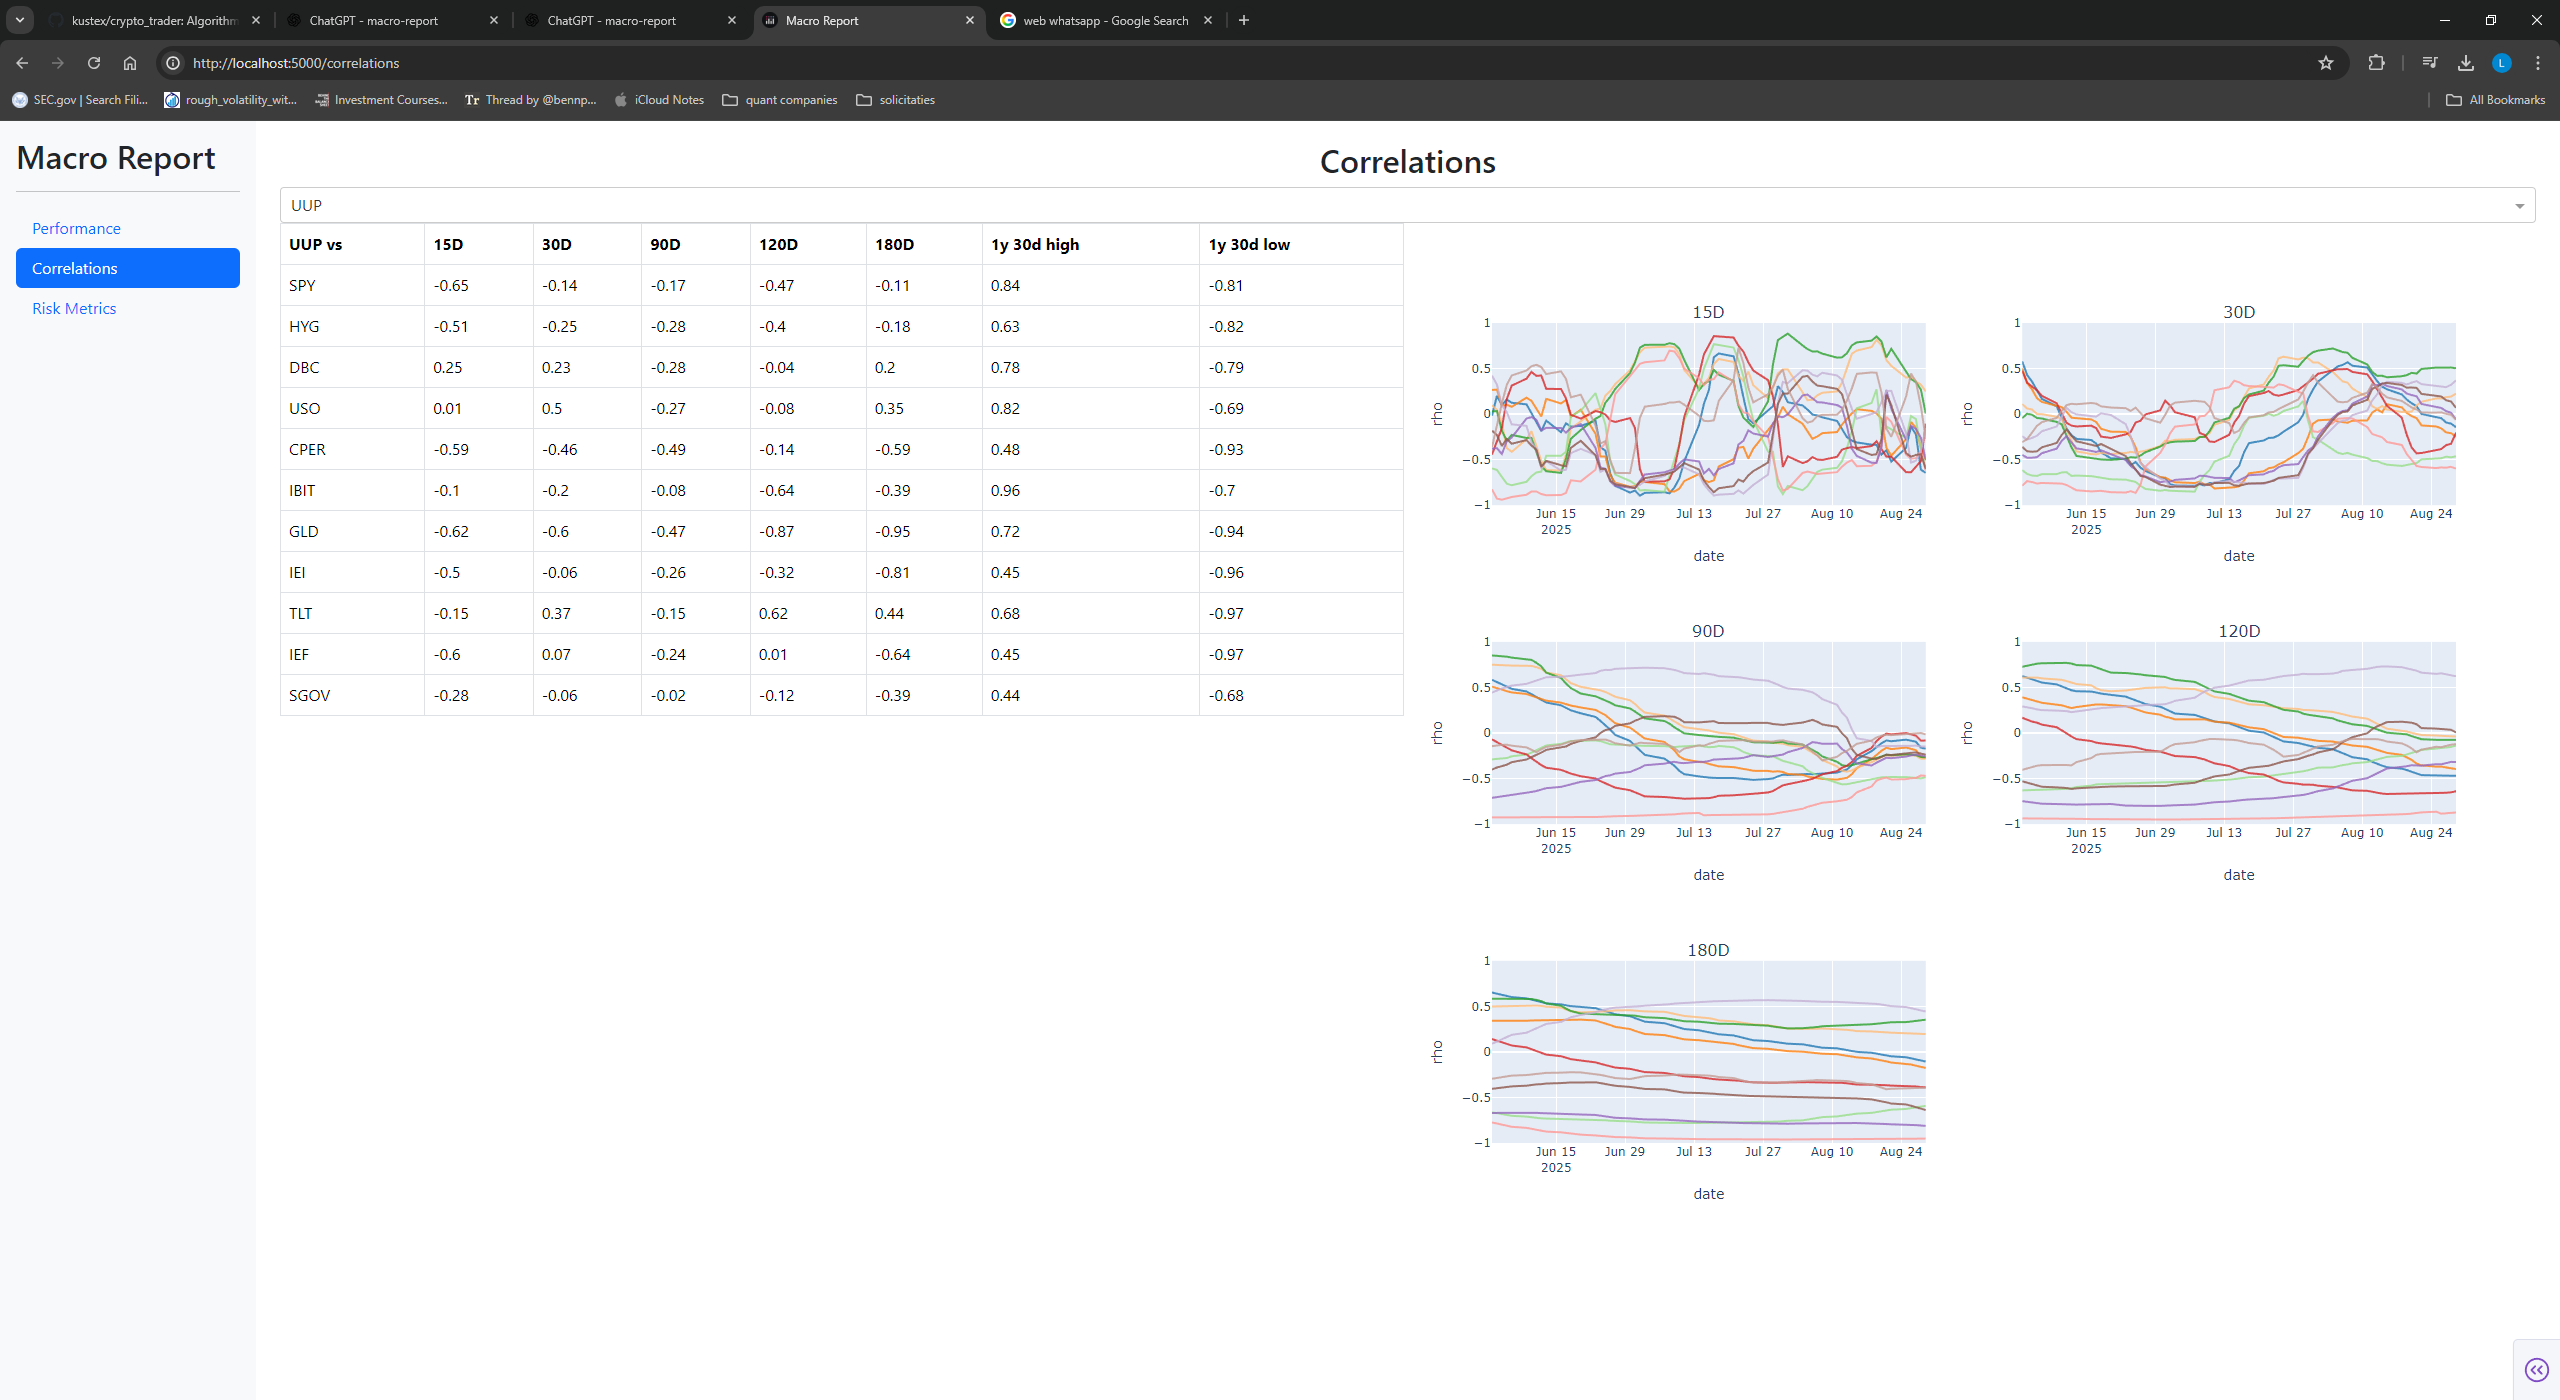
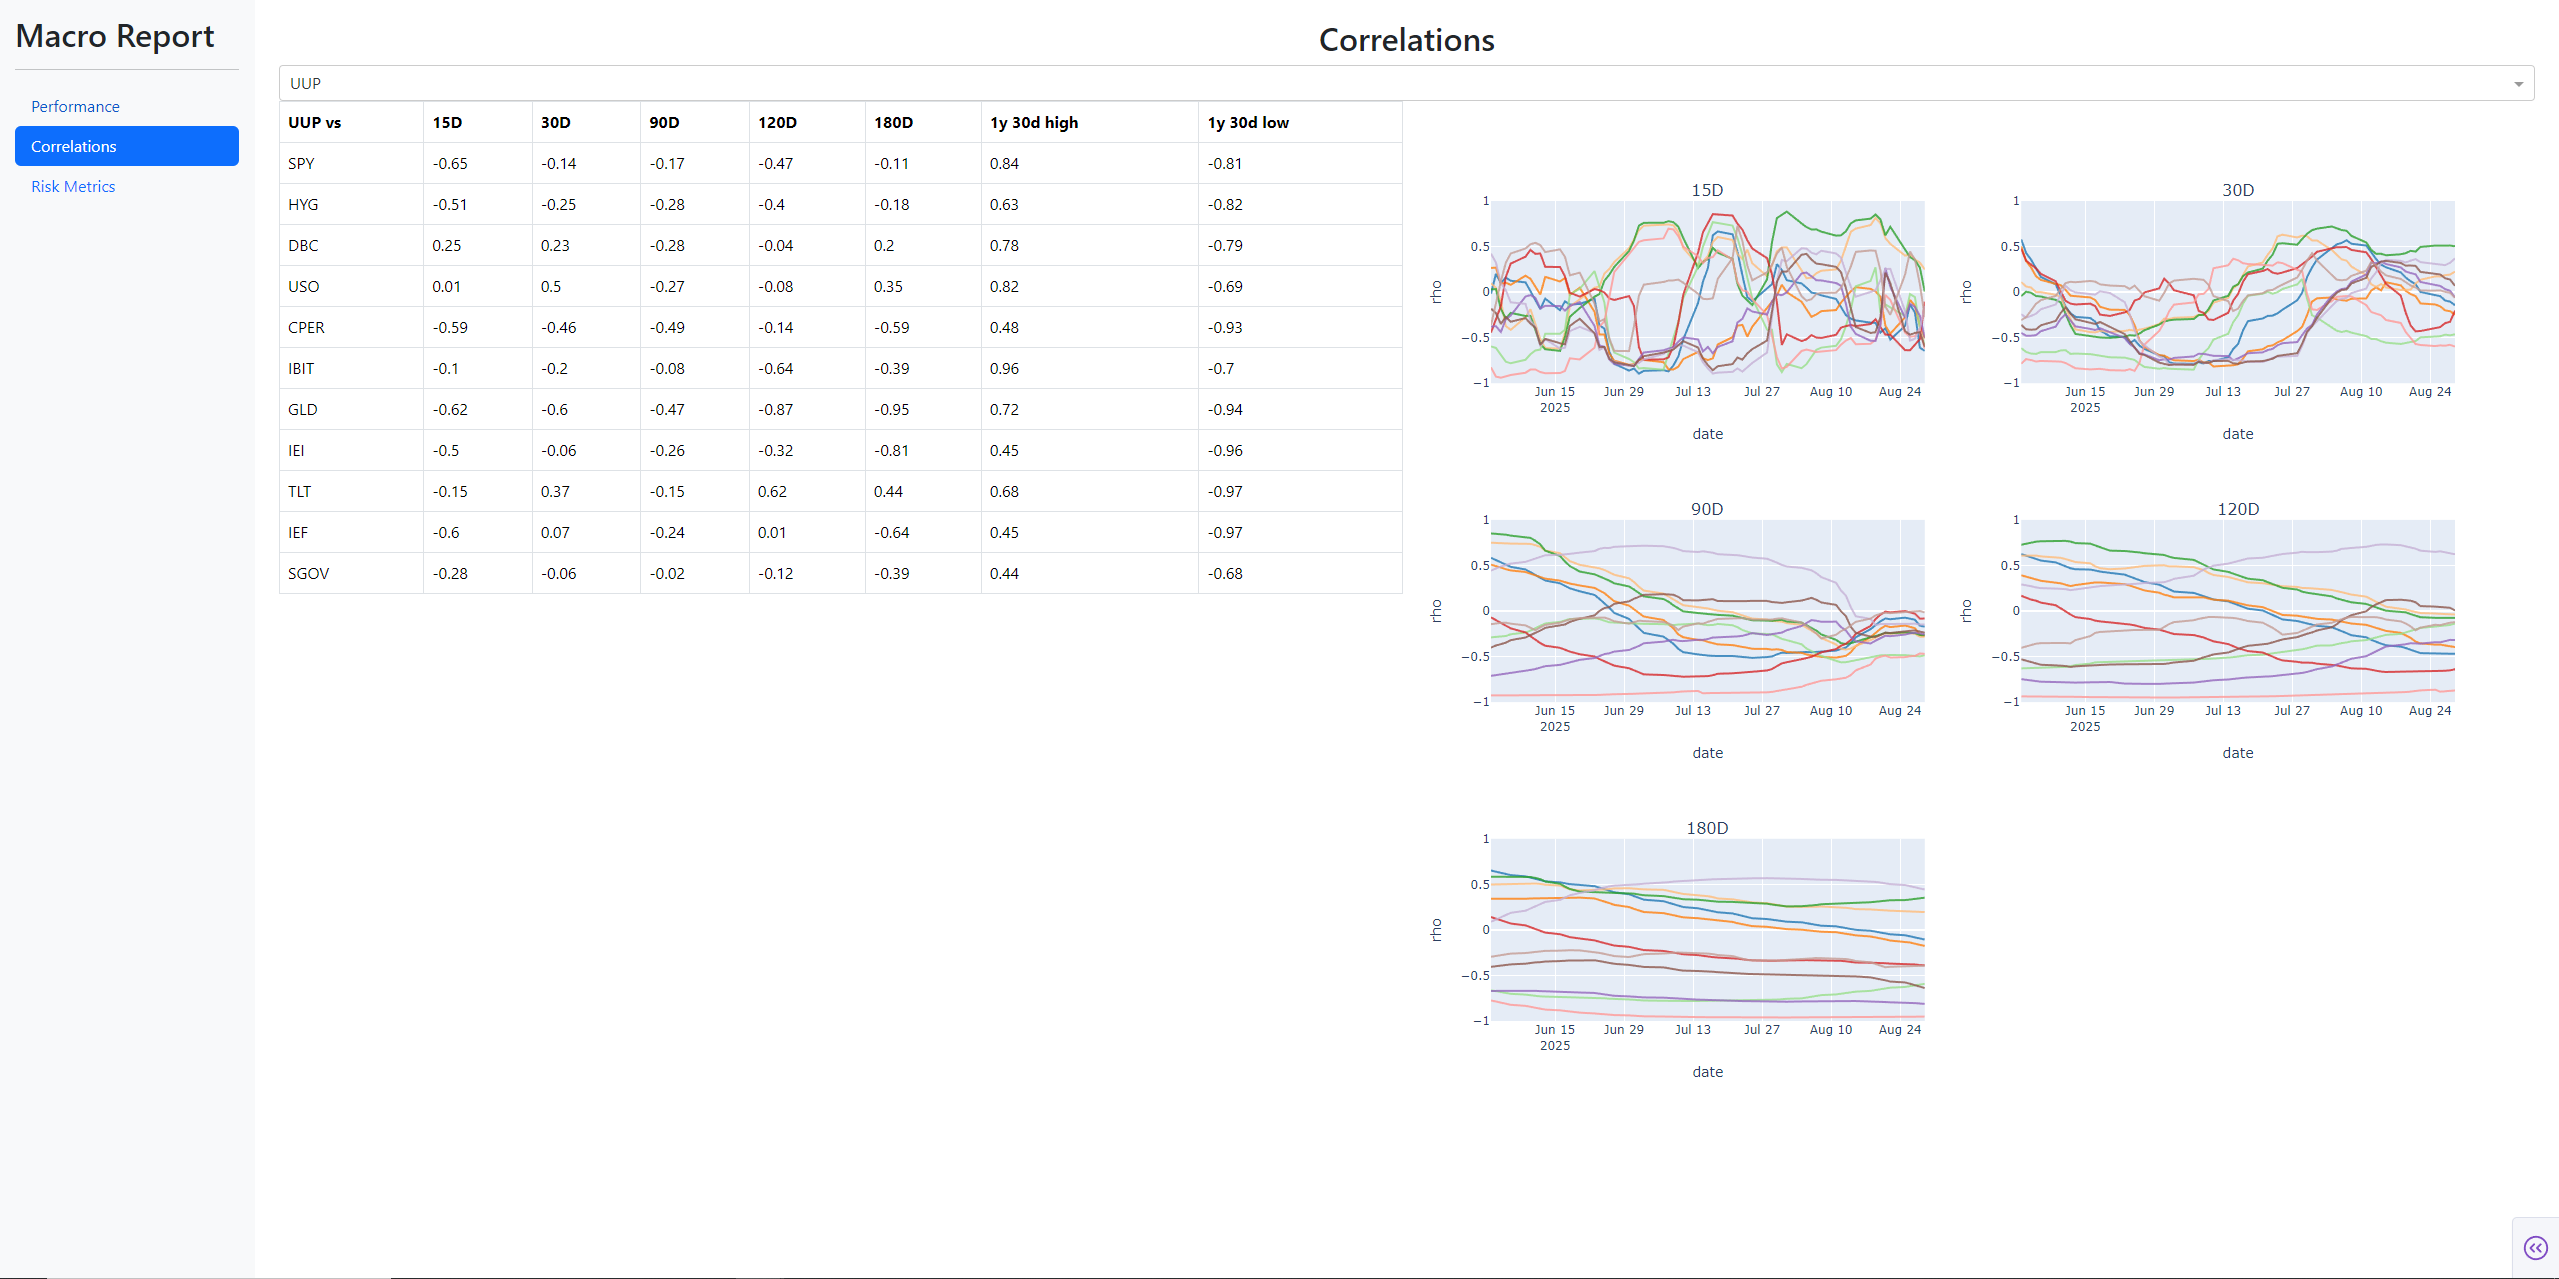
changed images

diff --git a/src/assets/style.css b/src/assets/style.css
@@ -2,14 +2,14 @@ html, body, #root, #_dash-app-content { height: 100%; }
 body { margin: 0; }
 
 /* Fixed left sidebar (your “tabs”) */
-/* .sidebar {
+.sidebar {
   position: fixed;
   top: 0; left: 0; bottom: 0;
   width: 16rem;
   padding: 1rem;
   background-color: #f8f9fa;
   overflow-y: auto;
-} */
+}
 
 /* Content area to the right that fills the screen */
 .content {
@@ -28,3 +28,25 @@ body { margin: 0; }
 @media (max-width: 991.98px) {
   .content { margin-left: 0; }
 }
+
+/* Center the selected value and placeholder in all dcc.Dropdown */
+.Select--single > .Select-control .Select-value,
+.Select-placeholder {
+  width: 100%;
+  text-align: center;
+}
+
+/* Center the text within the selected value label */
+.Select-value-label {
+  width: 100%;
+  text-align: center;
+  display: inline-block;
+}
+
+/* Center options in the open menu */
+.Select-menu-outer .Select-option {
+  text-align: center;
+}
+
+/* Slightly tighten vertical spacing around page headings */
+h2.text-center { margin-top: .25rem; margin-bottom: .5rem; }

diff --git a/src/layout.py b/src/layout.py
@@ -218,7 +218,11 @@ correlations_layout = html.Div(
                                 dcc.Loading(
                                     id="loading-correlation-table",
                                     type="circle",
-                                    children=[html.Div(id="dd_output_container_correlations")],
+                                    # ⬇ give the table container a fixed height and let it scroll
+                                    children=[html.Div(
+                                        id="dd_output_container_correlations",
+                                        style={"height": "80vh", "overflow": "auto"}
+                                    )],
                                 )
                             ],
                             className="card-body-grow",
@@ -231,7 +235,10 @@ correlations_layout = html.Div(
                                 dcc.Loading(
                                     id="loading-correlation-graphs",
                                     type="circle",
-                                    children=[dcc.Graph(id="dd_output_container_correlation_graphs", style={"height": "80vh"})],
+                                    children=[dcc.Graph(
+                                        id="dd_output_container_correlation_graphs",
+                                        style={"height": "80vh"}  # already tall; keep it
+                                    )],
                                 )
                             ],
                             className="card-body-grow",
